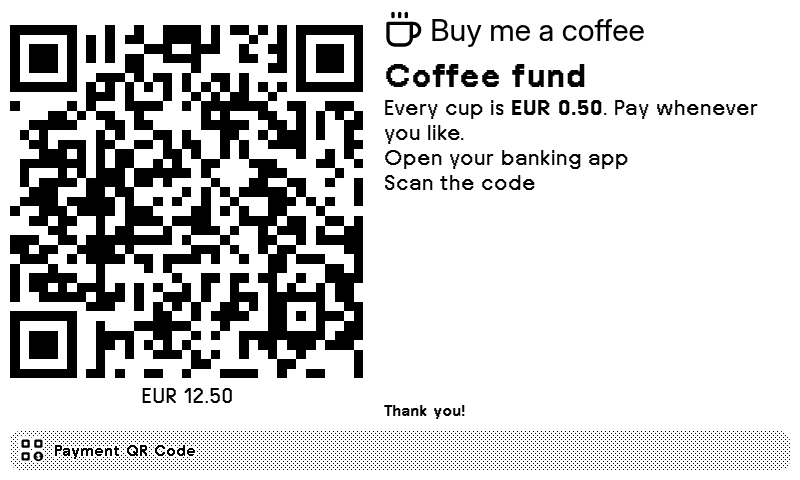
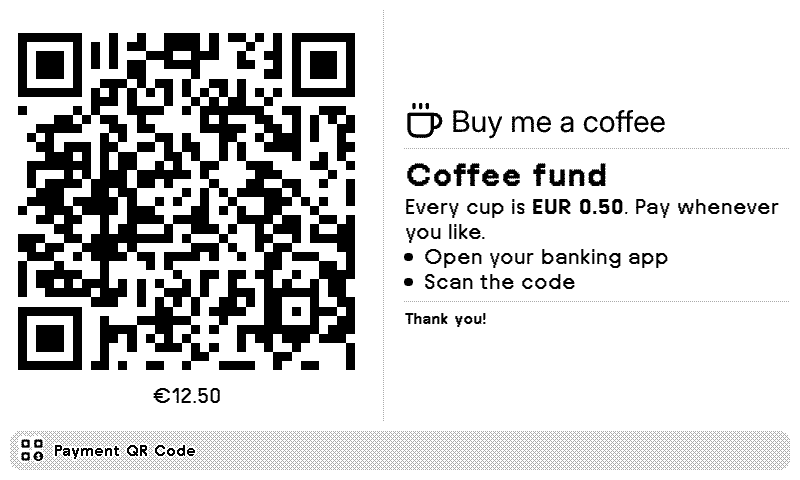
README: fresh screenshots, TRMNL X example
Claude-Session: https://claude.ai/code/session_015KWCEBPpm133rR4g2PPK7e

Changed region(s): [[0.0, 0.0312, 0.9688, 0.8438], [0.0, 0.8438, 1.0, 1.0], [0.5, 0.6562, 0.625, 0.6875]]

diff --git a/README.md b/README.md
@@ -34,6 +34,10 @@ Example: [a coffee shop price list](assets/examples/coffee-shop.json) with a [ma
 
 ![coffee shop](assets/screens/coffee-shop.png)
 
+On a TRMNL X the code is capped so the list gets more room:
+
+![coffee shop on TRMNL X](assets/screens/coffee-shop-x.png)
+
 Or from a script, using the same keys as the settings:
 
 ```sh
